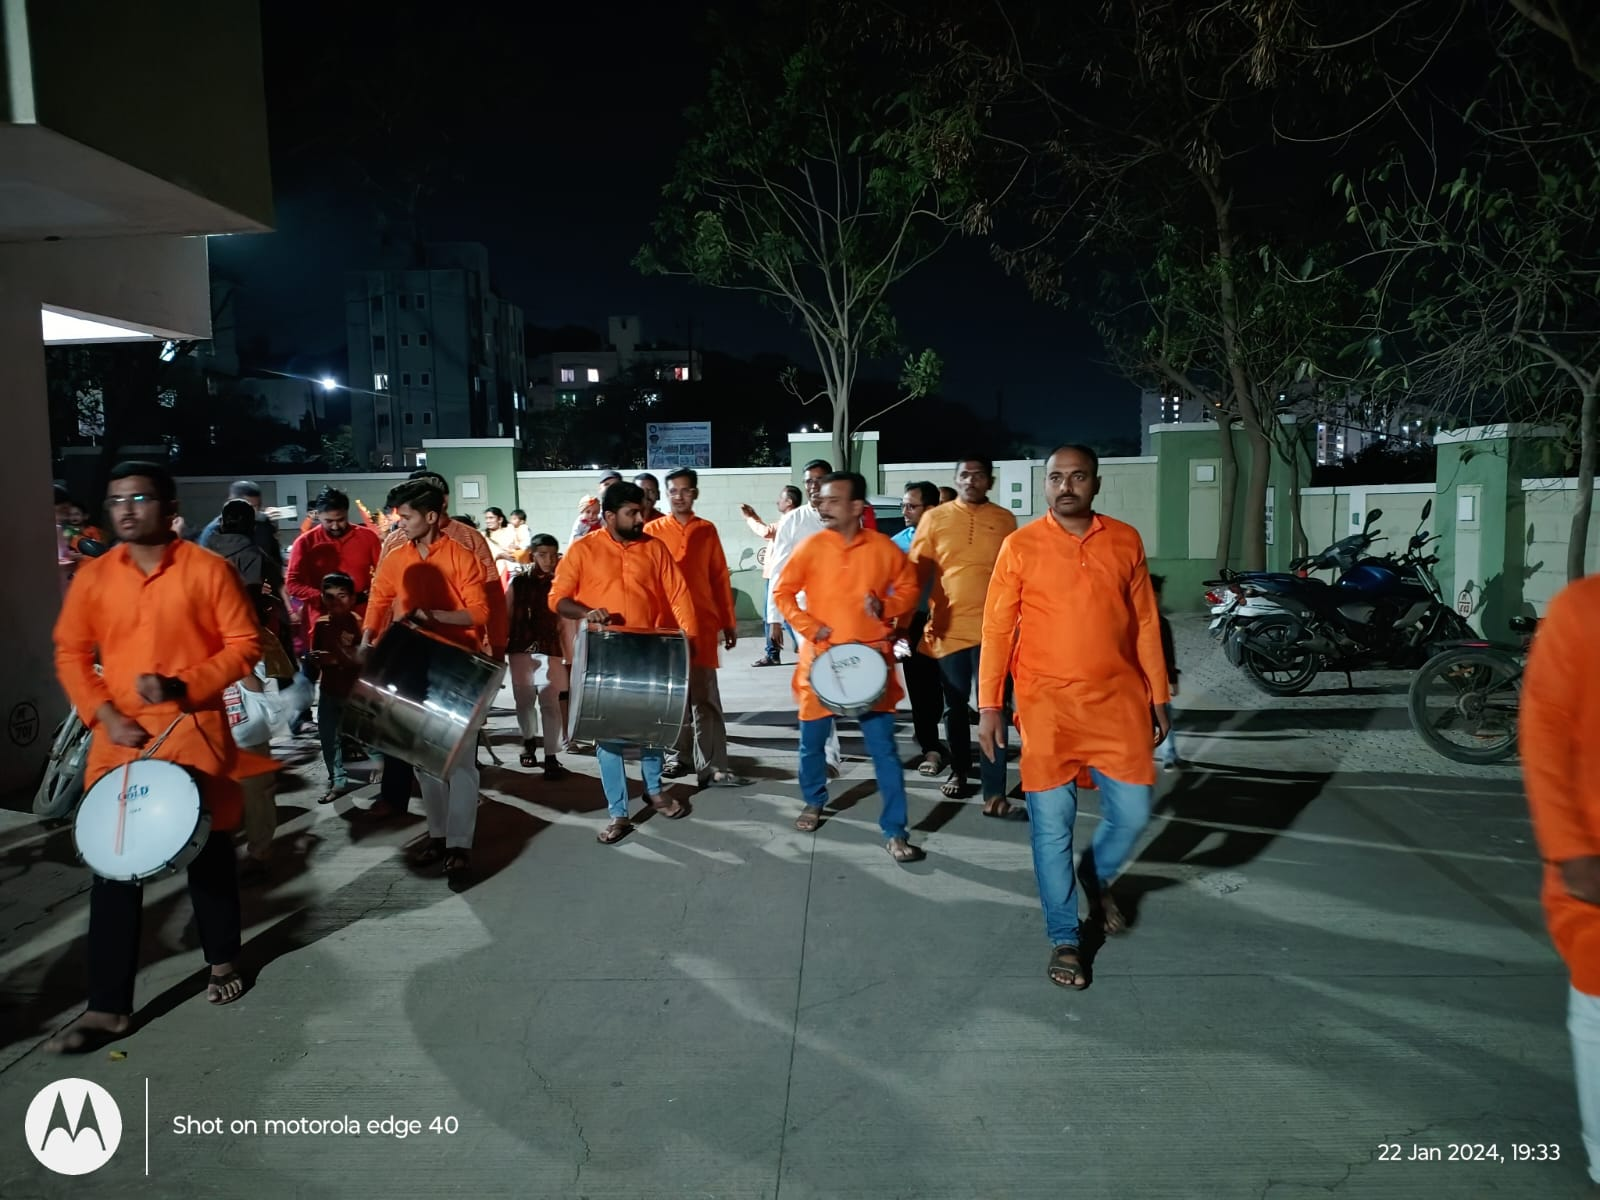
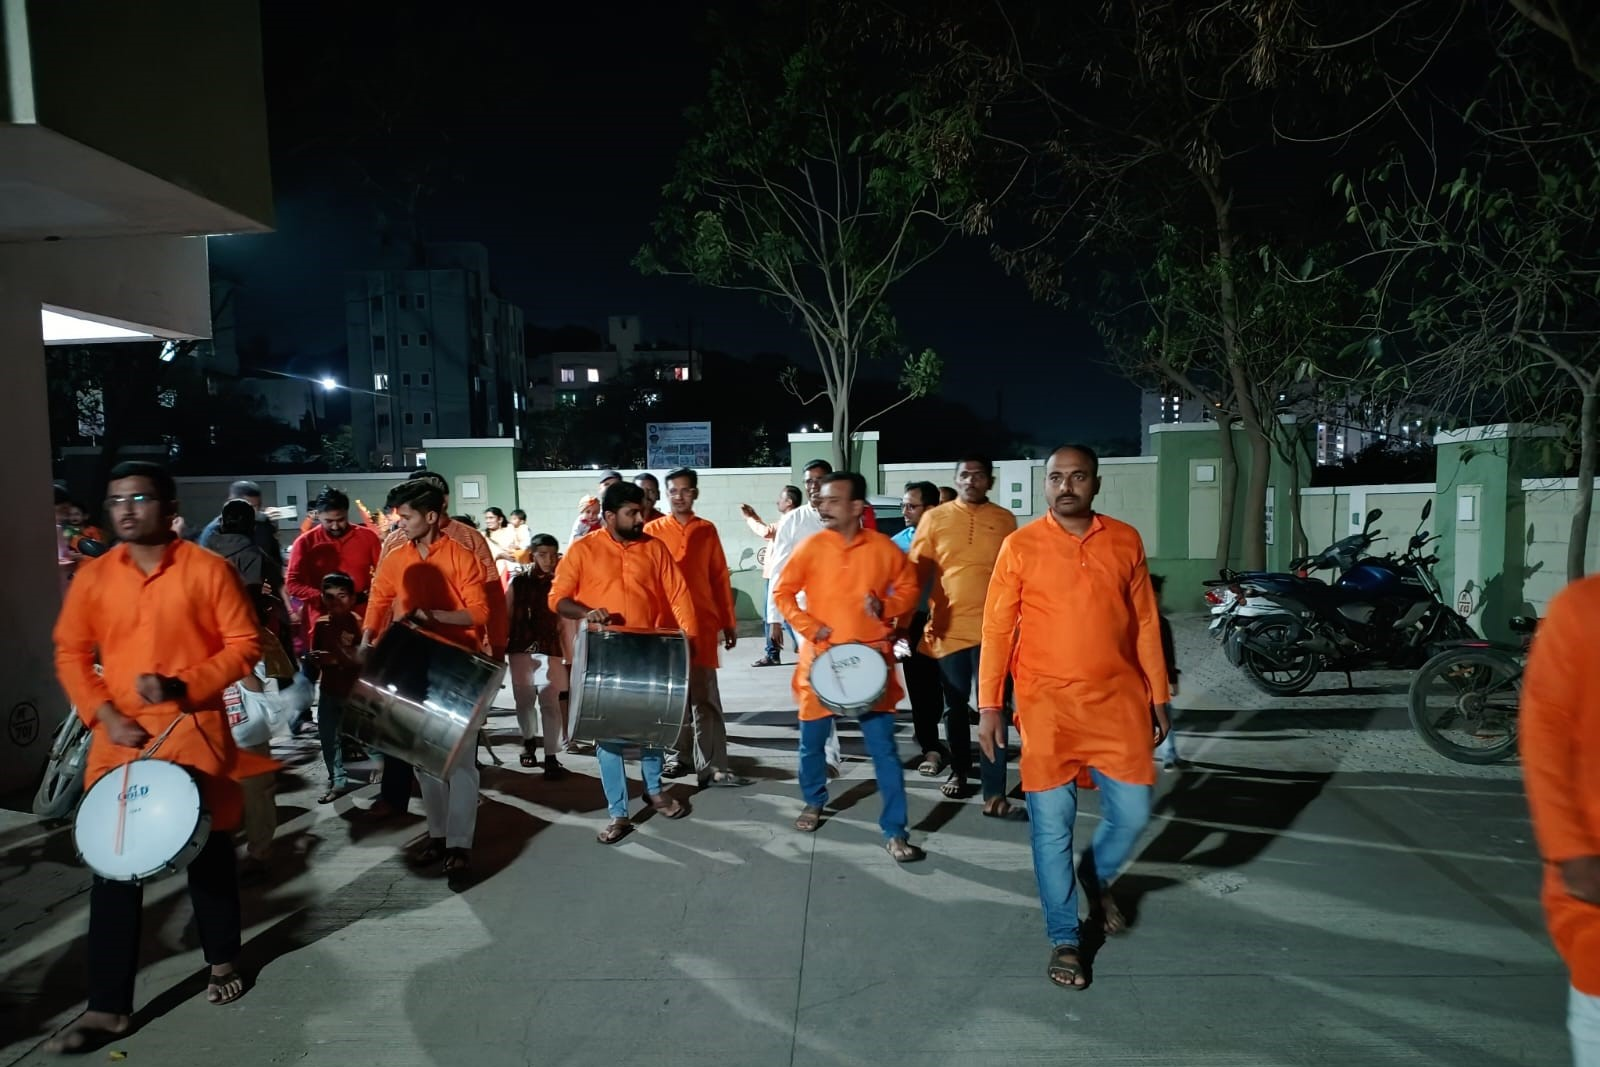
Remove watermark from photos
Also added some photos to the about page

diff --git a/AboutUs.html b/AboutUs.html
@@ -71,7 +71,10 @@
                     <img src="Background_images/Shivjayanti Invitation.jpeg" alt="">
                 </li>
                 <li class="slide">
-                    <img src="Background_images/society5.jpeg" alt="">
+                    <img src="Background_images/society17.jpeg" alt="">
+                </li>
+                <li class="slide">
+                    <img src="Background_images/society11.jpeg" alt="">
                 </li>
             </ul>
         </div>
@@ -115,6 +118,12 @@
                 </li>
                 <li class="slide">
                     <img src="Gallery Photos/event11.jpeg" alt="">
+                </li>
+                <li class="slide">
+                    <img src="Gallery Photos/event26.jpeg" alt="">
+                </li>
+                <li class="slide">
+                    <img src="Gallery Photos/event39.jpeg" alt="">
                 </li>
             </ul>
         </div>
